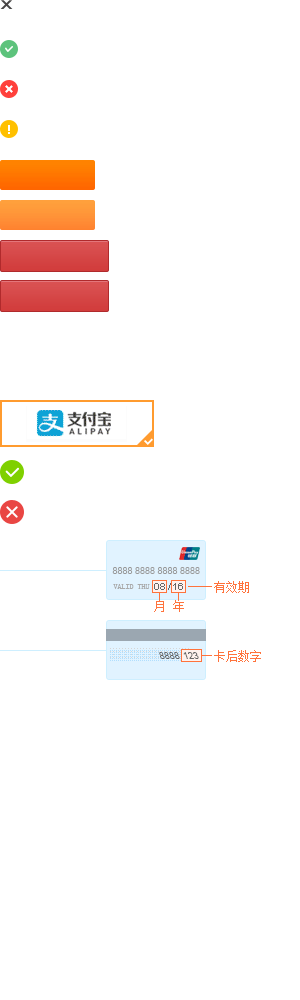
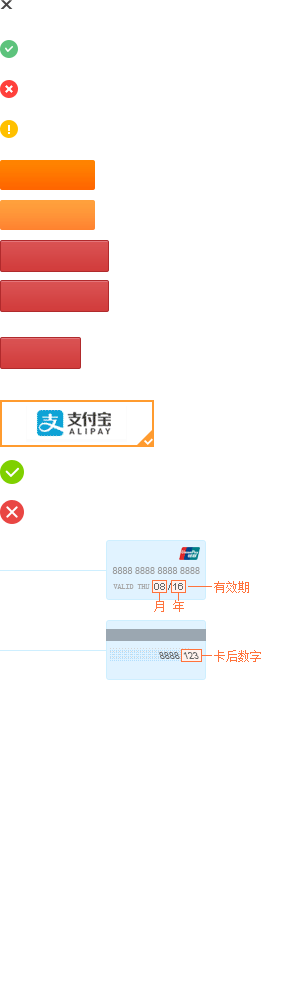
财务列表添加查询按钮

Changed region(s): [[0.0, 0.31, 0.27, 0.372]]

diff --git a/html/zh-jy-jl.html b/html/zh-jy-jl.html
@@ -41,7 +41,6 @@
               </li>
             </ul>
           </div>
-          <div id="counts"> </div>
         </form>
         <div class="jy-lx">
           <p class="filter-label">类型分类：</p>
@@ -61,6 +60,7 @@
             <li><a href="#">失败</a></li>
           </ul>
         </div>
+        <a href="#" class="chaxun">查询</a>
       </div>
       <table class="am-table1">
         <thead>
@@ -135,7 +135,6 @@
               </li>
             </ul>
           </div>
-          <div id="counts"> </div>
         </form>
         <div class="jy-lx">
           <p>交易状态：</p>
@@ -147,6 +146,7 @@
             <li><a href="#">失败</a></li>
           </ul>
         </div>
+        <a href="#" class="chaxun">查询</a>
       </div>
       <table class="am-table1">
         <thead>
@@ -216,7 +216,6 @@
               </li>
             </ul>
           </div>
-          <div id="counts"> </div>
         </form>
         <div class="jy-lx">
           <p>交易状态：</p>
@@ -229,6 +228,7 @@
             <li><a href="#">取消</a></li>
           </ul>
         </div>
+        <a href="#" class="chaxun">查询</a>
       </div>
       <table class="am-table1">
         <thead>
@@ -286,10 +286,9 @@
               </li>
             </ul>
           </div>
-          <div id="counts"> </div>
+          <a href="#" class="chaxun">查询</a>
         </form>
-        <div id="counts"> </div>
-        </m>
+        
       </div>
       <table class="am-table1">
         <thead>

diff --git a/css/css.css b/css/css.css
@@ -474,18 +474,26 @@ html, body, .container {
 	margin-left: 150px;
 }
 .cz {
-	width: 71px;
-	height: 28px;
-	background: #0e90d2;
-	color: #fff;
-	border: none;
+	background: #0e90d2 none repeat scroll 0 0;
+    border: medium none;
+    color: #fff;
+    display: block;
+    float: left;
+    height: 28px;
+    line-height: 28px;
+    text-align: center;
+    width: 71px;
 }
 .tx {
-	width: 71px;
-	height: 28px;
-	border: 1px solid #0e90d2;
-	background: #fff;
-	margin-left: 10px;
+	background: #fff none repeat scroll 0 0;
+    border: 1px solid #0e90d2;
+    display: block;
+    float: left;
+    height: 28px;
+    line-height: 28px;
+    margin-left: 10px;
+    text-align: center;
+    width: 71px;
 }
 .jyjl {
 	height: 26px;
@@ -644,13 +652,16 @@ html, body, .container {
 	margin-left: 162px;
 }
 .doc-button-l-1 {
-	width: 100px;
-	height: 36px;
-	background: #f29713;
-	color: #FFF;
-	font-size: 14px;
-	border: none;
-	margin-left: 132px;
+	background: #f29713 no-repeat;
+    border: medium none;
+    color: #fff;
+    display: block;
+    font-size: 14px;
+    height: 36px;
+    line-height: 36px;
+    margin-left: 132px;
+    text-align: center;
+    width: 100px;
 }
 .jl_bt {
 	width: 1200px;
@@ -1652,3 +1663,4 @@ html, body, .container {
 	font-size: 20px;
 	vertical-align: top
 }
+.chaxun{display:block;width:81px;height:32px;background:url(../images/cashdesk-icon-bind-card.png) no-repeat left -337px;line-height:32px;color:#fff;text-align:center;margin-left:325px;margin-top:20px;}
